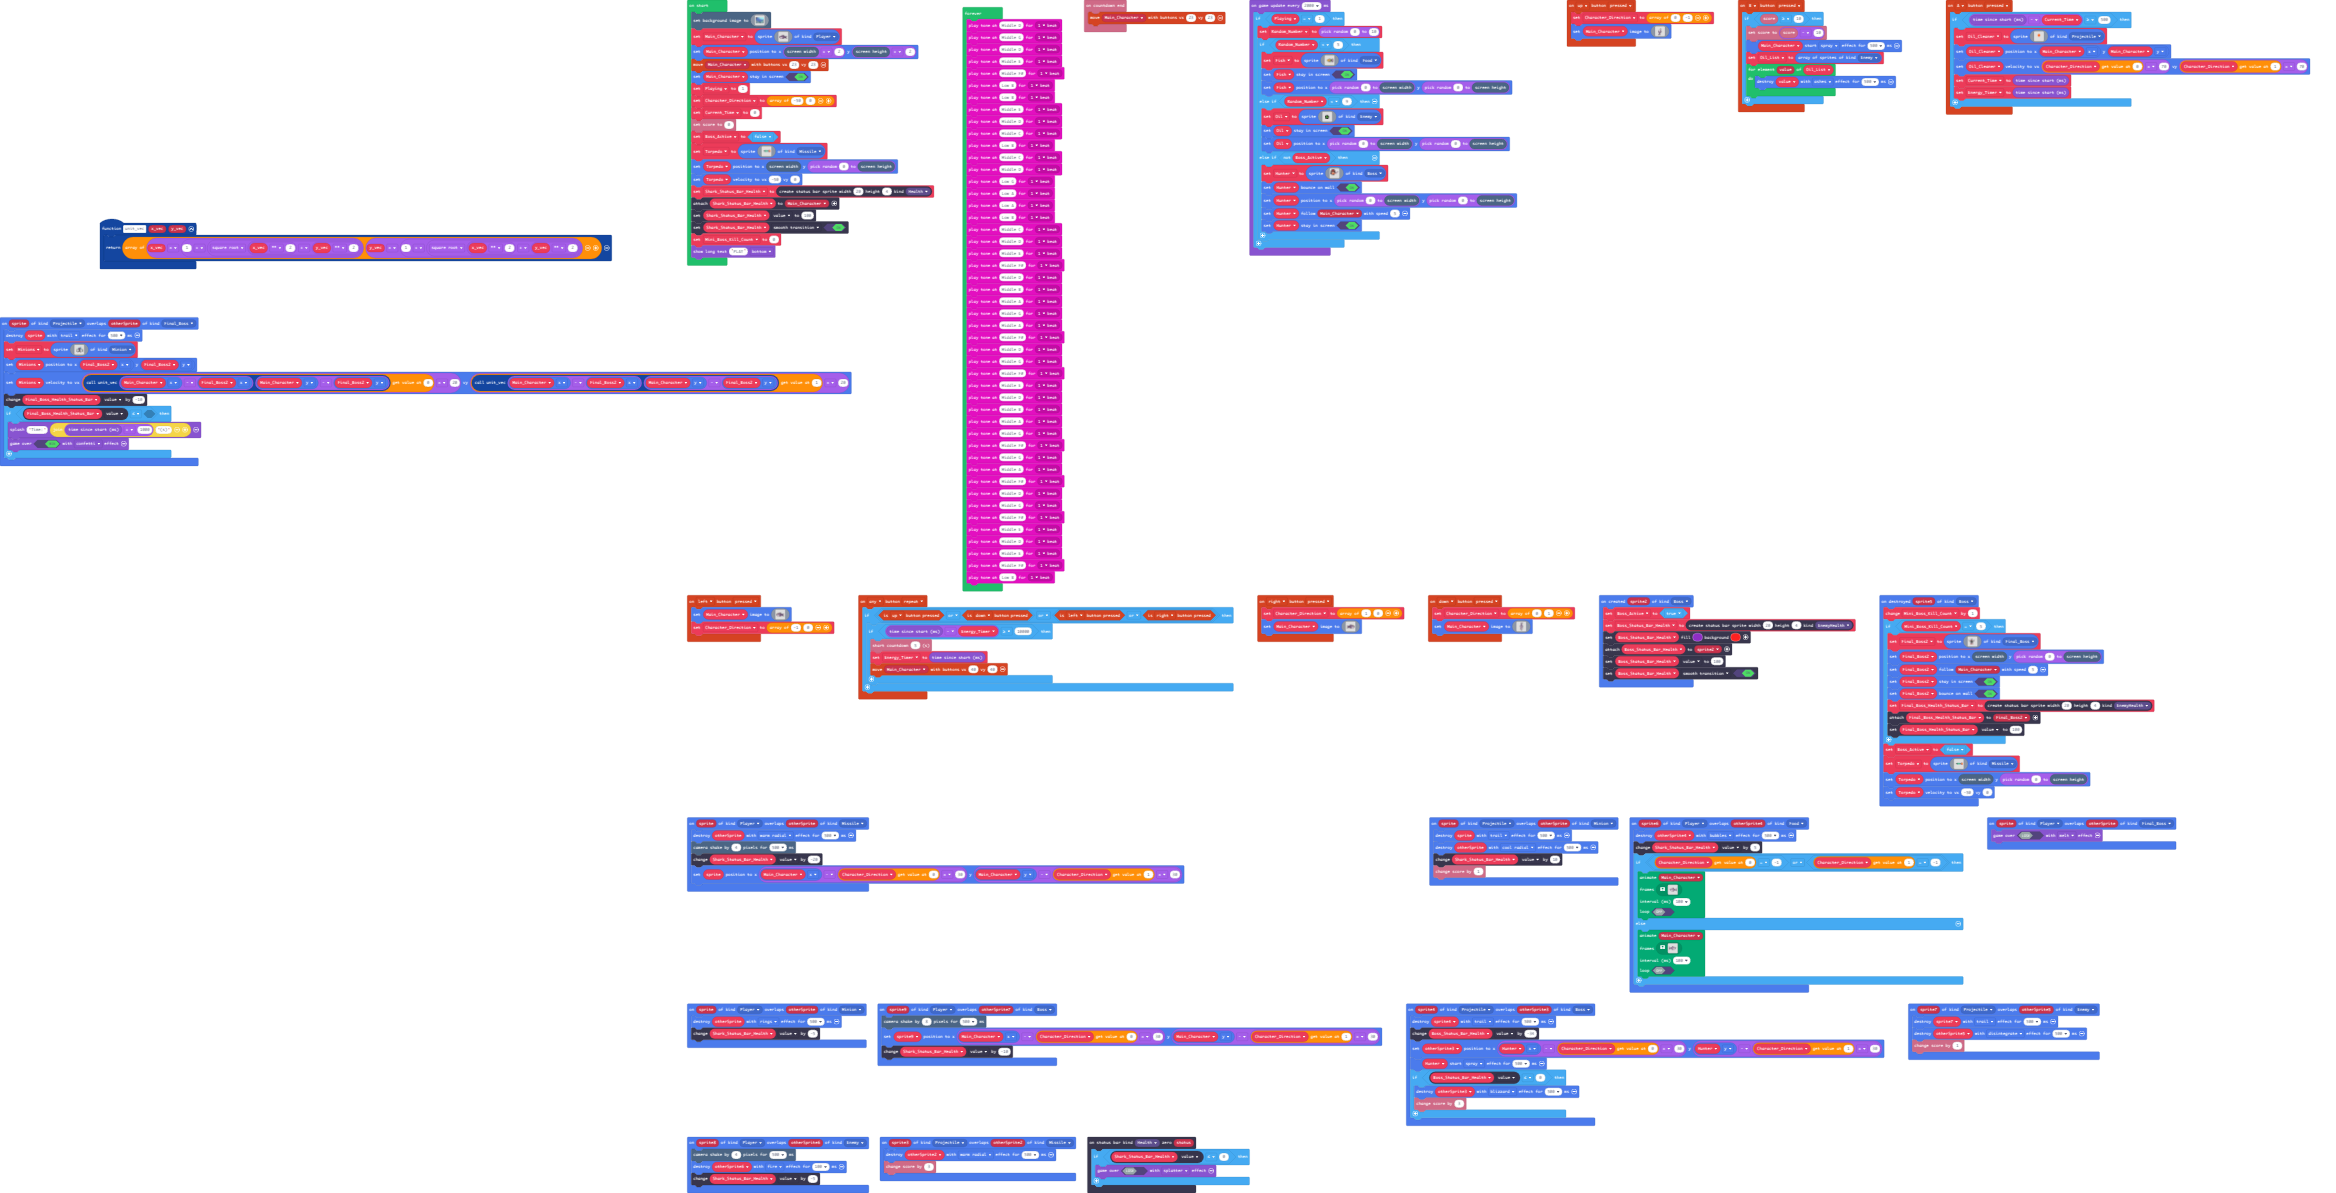
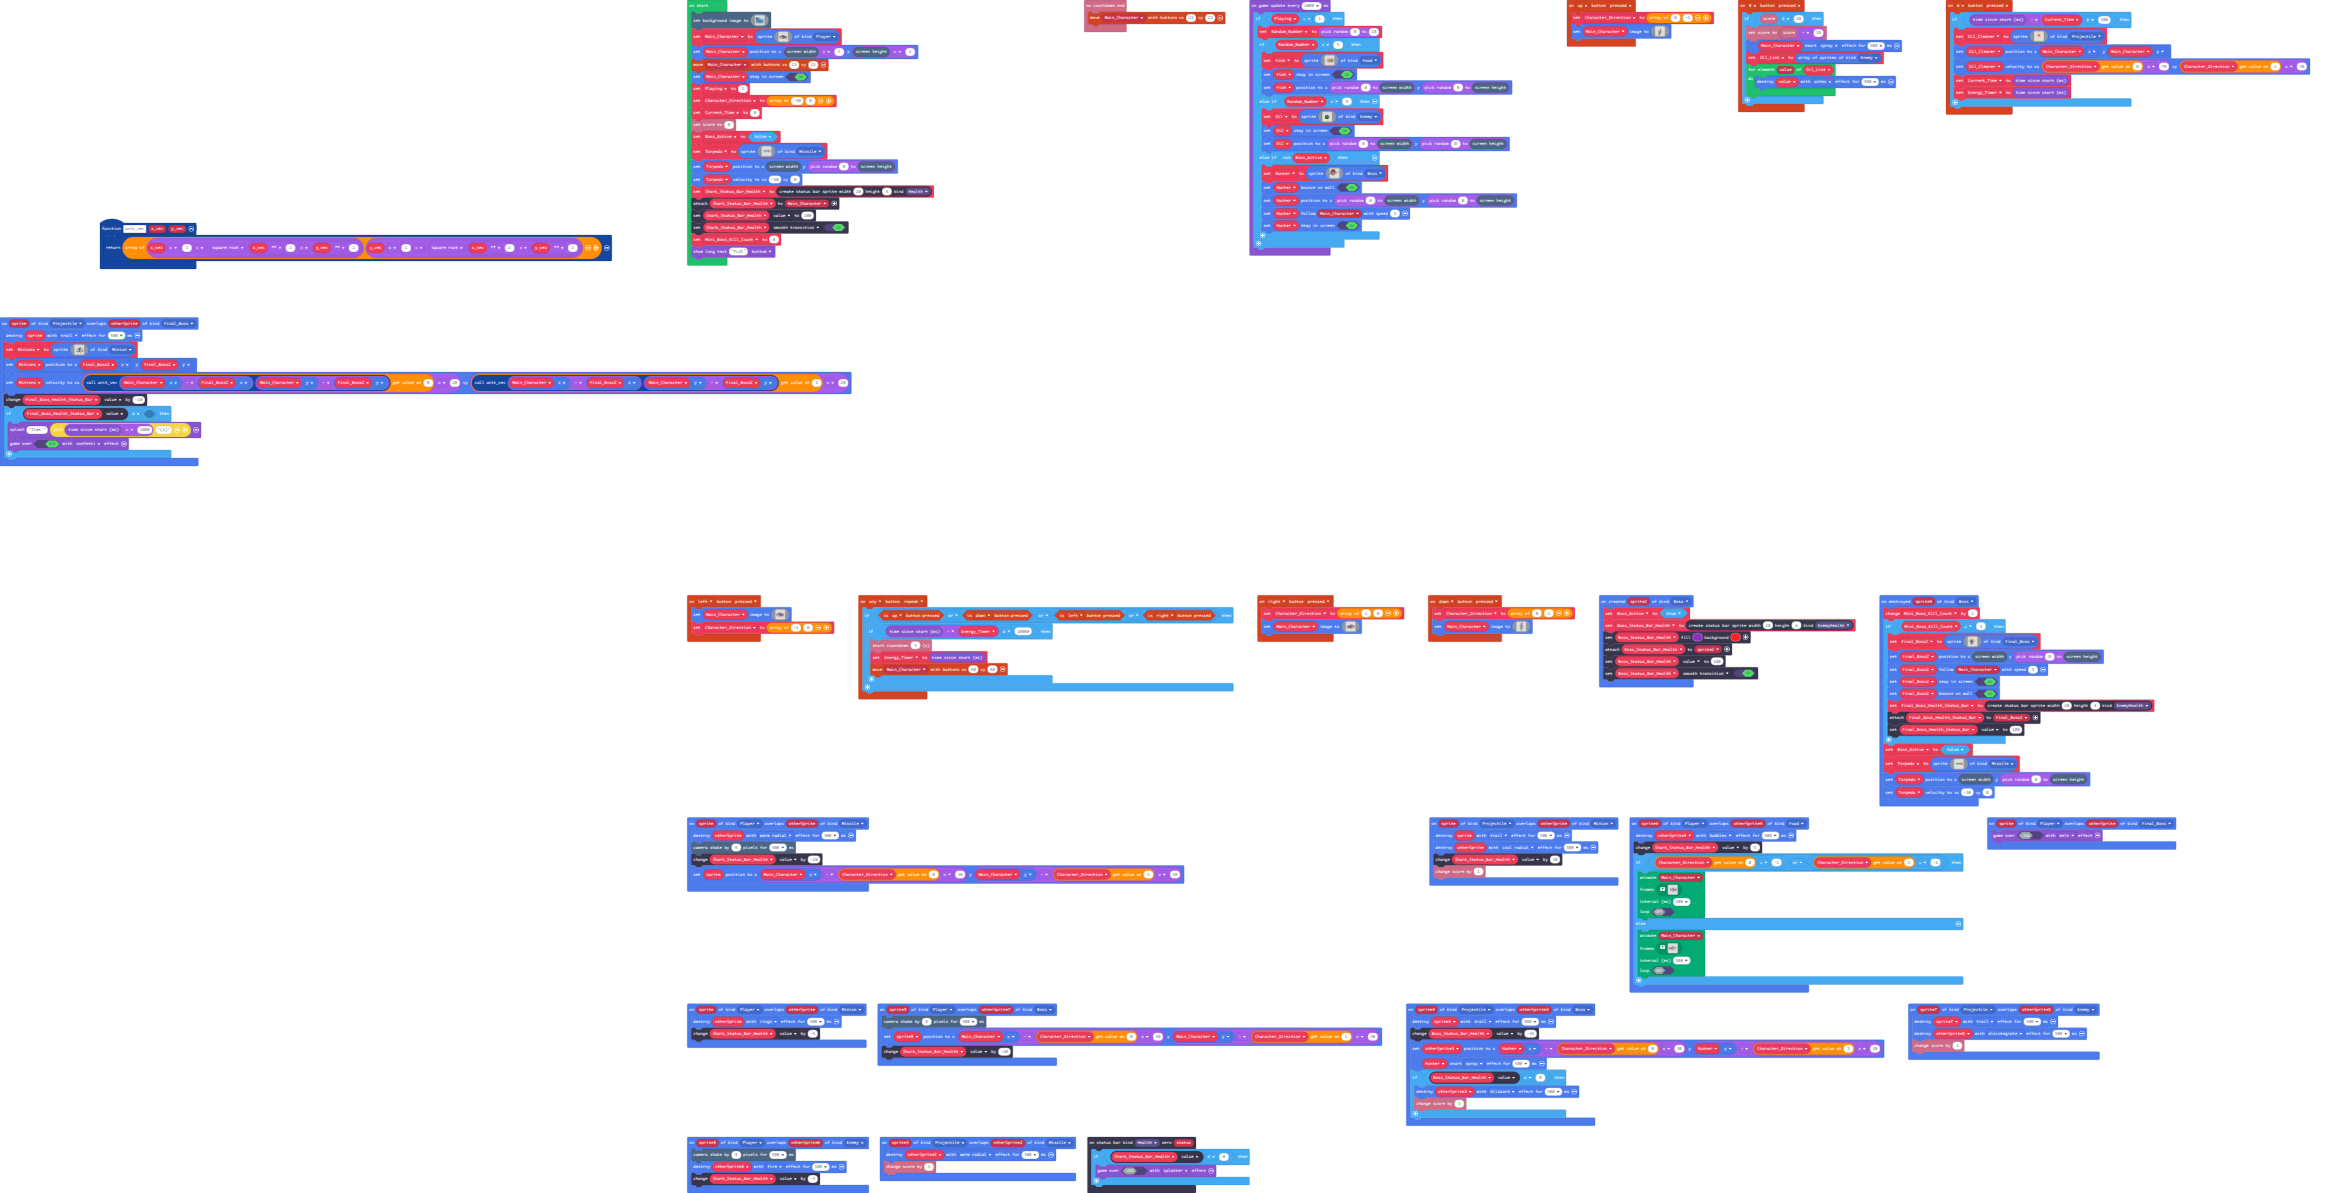
Removed Music

Changed region(s): [[0.4062, 0.0, 0.4688, 0.4962]]

diff --git a/main.ts b/main.ts
@@ -330,52 +330,3 @@ game.onUpdateInterval(2000, function () {
         }
     }
 })
-forever(function () {
-    music.playTone(294, music.beat(BeatFraction.Whole))
-    music.playTone(392, music.beat(BeatFraction.Whole))
-    music.playTone(294, music.beat(BeatFraction.Whole))
-    music.playTone(330, music.beat(BeatFraction.Whole))
-    music.playTone(370, music.beat(BeatFraction.Whole))
-    music.playTone(247, music.beat(BeatFraction.Whole))
-    music.playTone(247, music.beat(BeatFraction.Whole))
-    music.playTone(330, music.beat(BeatFraction.Whole))
-    music.playTone(294, music.beat(BeatFraction.Whole))
-    music.playTone(262, music.beat(BeatFraction.Whole))
-    music.playTone(247, music.beat(BeatFraction.Whole))
-    music.playTone(262, music.beat(BeatFraction.Whole))
-    music.playTone(294, music.beat(BeatFraction.Whole))
-    music.playTone(196, music.beat(BeatFraction.Whole))
-    music.playTone(220, music.beat(BeatFraction.Whole))
-    music.playTone(220, music.beat(BeatFraction.Whole))
-    music.playTone(247, music.beat(BeatFraction.Whole))
-    music.playTone(262, music.beat(BeatFraction.Whole))
-    music.playTone(294, music.beat(BeatFraction.Whole))
-    music.playTone(330, music.beat(BeatFraction.Whole))
-    music.playTone(370, music.beat(BeatFraction.Whole))
-    music.playTone(294, music.beat(BeatFraction.Whole))
-    music.playTone(494, music.beat(BeatFraction.Whole))
-    music.playTone(440, music.beat(BeatFraction.Whole))
-    music.playTone(392, music.beat(BeatFraction.Whole))
-    music.playTone(440, music.beat(BeatFraction.Whole))
-    music.playTone(370, music.beat(BeatFraction.Whole))
-    music.playTone(294, music.beat(BeatFraction.Whole))
-    music.playTone(392, music.beat(BeatFraction.Whole))
-    music.playTone(370, music.beat(BeatFraction.Whole))
-    music.playTone(330, music.beat(BeatFraction.Whole))
-    music.playTone(294, music.beat(BeatFraction.Whole))
-    music.playTone(494, music.beat(BeatFraction.Whole))
-    music.playTone(440, music.beat(BeatFraction.Whole))
-    music.playTone(392, music.beat(BeatFraction.Whole))
-    music.playTone(370, music.beat(BeatFraction.Whole))
-    music.playTone(392, music.beat(BeatFraction.Whole))
-    music.playTone(440, music.beat(BeatFraction.Whole))
-    music.playTone(370, music.beat(BeatFraction.Whole))
-    music.playTone(294, music.beat(BeatFraction.Whole))
-    music.playTone(392, music.beat(BeatFraction.Whole))
-    music.playTone(370, music.beat(BeatFraction.Whole))
-    music.playTone(330, music.beat(BeatFraction.Whole))
-    music.playTone(294, music.beat(BeatFraction.Whole))
-    music.playTone(330, music.beat(BeatFraction.Whole))
-    music.playTone(370, music.beat(BeatFraction.Whole))
-    music.playTone(247, music.beat(BeatFraction.Whole))
-})
